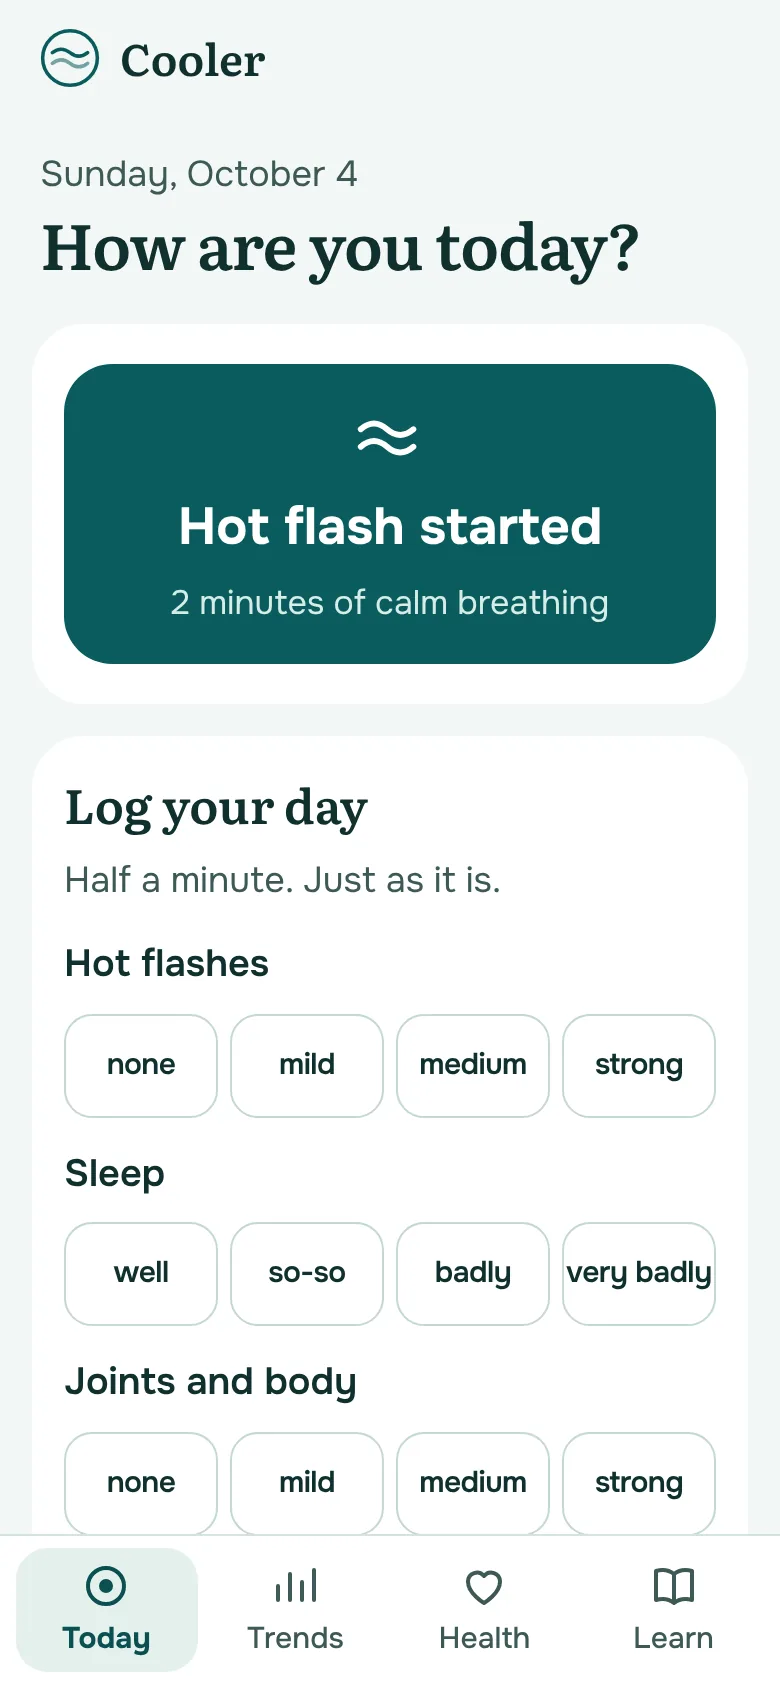
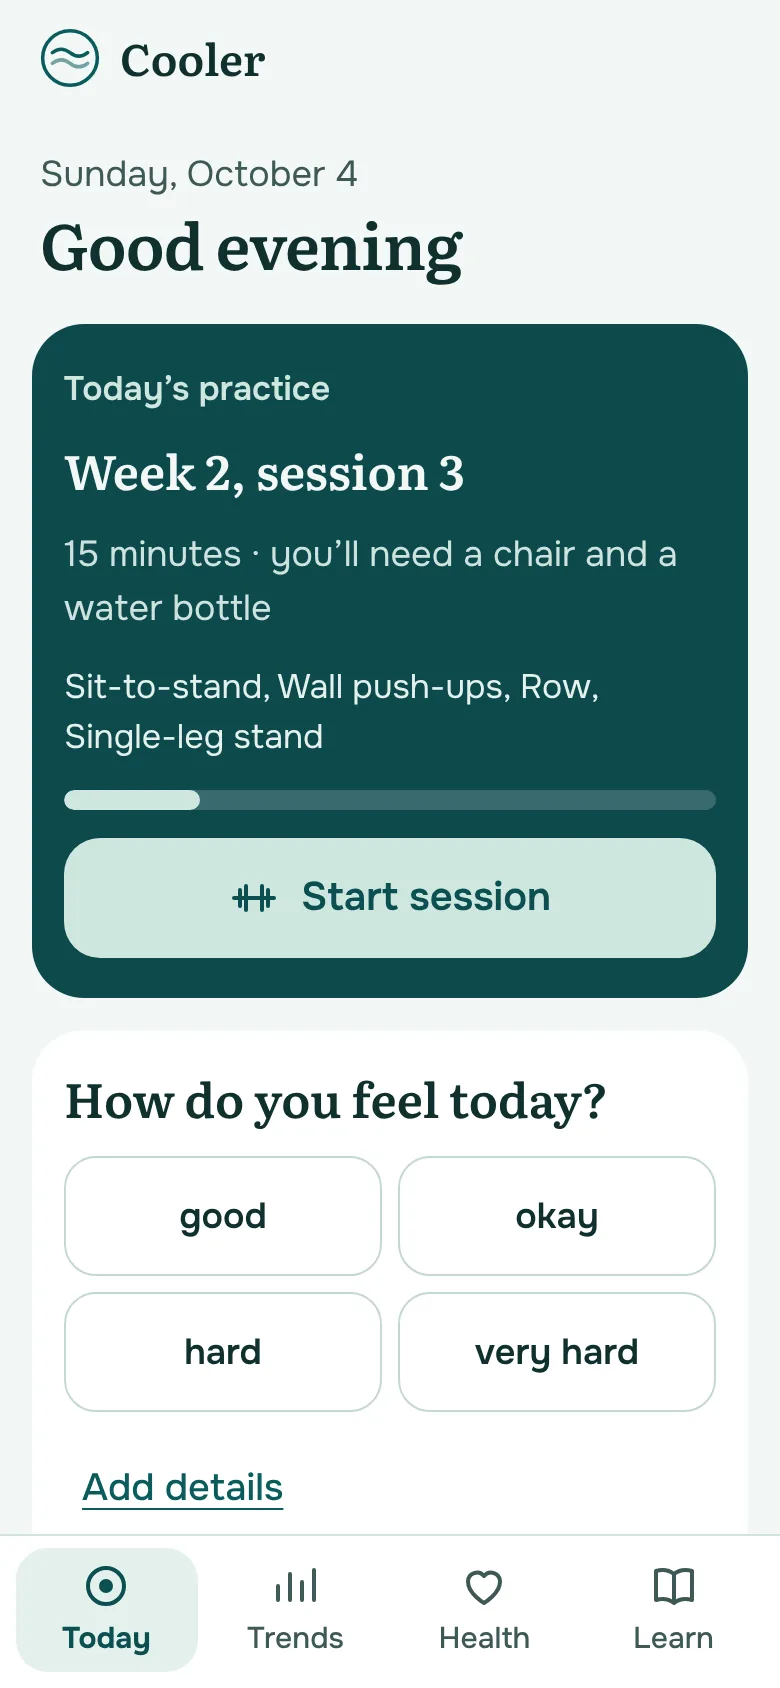
App Today: practice of the day first, one-tap check-in
- Practice card: next strength session, calm breathing on rest days, done state
- Check-in is one question (good / okay / hard / very hard); symptom details are optional
- Hot flash button becomes a row; headache, blood pressure, waist as links
- Breathing sheet gets a calm mode that does not log a hot flash
- New tip for hard days; calm-day tip no longer pushes strength on a rest day
- Landing: new Today screenshot and copy

Claude-Session: https://claude.ai/code/session_013iUDDtnGzNUCcWhPfVsdWa

diff --git a/cooler-site/app/src/screens/Today.jsx b/cooler-site/app/src/screens/Today.jsx
@@ -2,7 +2,7 @@ import { useState, useEffect } from 'preact/hooks';
 import { update, useStore } from '../lib/store.js';
 import { useT, APP_NAME } from '../i18n.js';
 import { SYMPTOMS, LEVELS, SLEEP_LEVELS, TAGS, TIPS, RED_FLAGS } from '../data/content.js';
-import { PROGRAM, nextSession, sessionKey } from '../data/program.js';
+import { PROGRAM, EXERCISES, nextSession, sessionKey } from '../data/program.js';
 import { Logo, Icon, Scale, Chip } from '../ui/kit.jsx';
 import { Breathing, HeadacheSheet, BpSheet, WaistSheet } from './Sheets.jsx';
 import { dayKey, addDays, fmtWeekday, fmtTime, fmtDate, daysBetween, parseDay } from '../lib/dates.js';
@@ -56,7 +56,7 @@ export default function Today() {
       </header>
       <div>
         <p class="date">{fmtWeekday(today, lang)}</p>
-        <h1 class="h1">{away ? t.welcomeBack : t.hello}</h1>
+        <h1 class="h1">{away ? t.welcomeBack : t.greet(new Date().getHours())}</h1>
       </div>
 
       {visitSoon(s) && (
@@ -69,43 +69,23 @@ export default function Today() {
 
       {doses.length > 0 && <MedsToday doses={doses} />}
 
-      {has(p, 'hot') && (
-        <section class="card">
-          <button class="big-hot" onClick={() => { setHotPlace('today_big_button'); open('hot', 'today_big_button'); }}>
-            <Icon name="wave" size={38} />
-            <b>{lang === 'ru' ? 'Начался прилив' : 'Hot flash started'}</b>
-            <span>{lang === 'ru' ? '2 минуты спокойного дыхания' : '2 minutes of calm breathing'}</span>
-          </button>
-          {eventsOn(s.events, today, 'hotflash').length > 0 && <p class="sub">{t.hotToday(eventsOn(s.events, today, 'hotflash').length)}</p>}
-        </section>
-      )}
+      <Practice onBreathe={() => { setHotPlace('practice'); open('calm', 'practice'); }} />
 
       <CheckIn syms={syms} />
 
-      <section class="stack-s">
-        <p class="h3" style="padding:0 4px">{t.quick}</p>
-        <div class="quick">
-          {!has(p, 'hot') && <button onClick={() => { setHotPlace('quick_row'); open('hot', 'quick_row'); }}><Icon name="wave" /><span>{t.qHot}</span></button>}
-          <button onClick={() => open('head', 'quick_row')}><Icon name="head" /><span>{t.qHead}</span></button>
-          <button onClick={() => open('bp', 'quick_row')}><Icon name="bp" /><span>{t.qBp}</span></button>
-          {has(p, 'hot') && <button onClick={() => open('waist', 'quick_row')}><Icon name="ruler" /><span>{t.waist}</span></button>}
+      <section class="card tight">
+        <button class="hot-row" onClick={() => { setHotPlace(has(p, 'hot') ? 'today_big_button' : 'quick_row'); open('hot', 'today_hot_row'); }}>
+          <span class="hot-ico"><Icon name="wave" size={28} /></span>
+          <span class="hot-txt"><b>{lang === 'ru' ? 'Начался прилив' : 'Hot flash started'}</b><span>{t.hotRowSub}</span></span>
+          <span class="chev"><Icon name="chev" size={20} /></span>
+        </button>
+        {eventsOn(s.events, today, 'hotflash').length > 0 && <p class="sub">{t.hotToday(eventsOn(s.events, today, 'hotflash').length)}</p>}
+        <div class="quick-links">
+          <button class="btn btn-ghost" onClick={() => open('head', 'quick_row')}>{t.qHead}</button>
+          <button class="btn btn-ghost" onClick={() => open('bp', 'quick_row')}>{t.qBp}</button>
+          <button class="btn btn-ghost" onClick={() => open('waist', 'quick_row')}>{t.waist}</button>
         </div>
       </section>
-
-      {wantsProgram && (
-        <section class="card">
-          <p class="kicker">{t.programCard} · {L(PROGRAM).title}</p>
-          {!s.program && <p class="sub">{L(PROGRAM).about}</p>}
-          {s.program && next && <p class="h3">{t.programWeek(next.week, next.n)}</p>}
-          {s.program && !next && <p class="sub">{t.programDoneAll}</p>}
-          {s.program && (
-            <div class="bar" aria-hidden="true"><i style={{ width: `${(s.program.done.length / (PROGRAM.weeks * PROGRAM.perWeek)) * 100}%` }} /></div>
-          )}
-          {s.program && next
-            ? <button class="btn btn-primary" onClick={() => { track('card_clicked', { card: 'program', action: 'start_session', week: next.week }); go(`health/program/${sessionKey(next.week, next.n)}`); }}><Icon name="dumbbell" /> {t.programStart}</button>
-            : <button class="btn btn-outline" onClick={() => { track('card_clicked', { card: 'program', action: 'about' }); go('health/program'); }}>{t.programAbout}</button>}
-        </section>
-      )}
 
       {logCount >= 5 ? (
         <section class="card">
@@ -162,10 +142,59 @@ export default function Today() {
       <a class="btn btn-ghost" style="justify-self:center" href={FEEDBACK_URL} target="_blank" rel="noopener" onClick={() => track('feedback_clicked', { place: 'today' })}>{t.feedback}</a>
 
       {sheet === 'hot' && <Breathing place={hotPlace} onClose={() => setSheet(null)} />}
+      {sheet === 'calm' && <Breathing mode="calm" place={hotPlace} onClose={() => setSheet(null)} />}
       {sheet === 'head' && <HeadacheSheet onClose={() => setSheet(null)} onBp={() => setSheet('bp')} />}
       {sheet === 'bp' && <BpSheet onClose={() => setSheet(null)} />}
       {sheet === 'waist' && <WaistSheet onClose={() => setSheet(null)} />}
     </div>
+  );
+}
+
+// ── Today's practice: one thing to do. Strength session, or calm breathing on a rest day. ──
+function Practice({ onBreathe }) {
+  const s = useStore();
+  const { t, lang, L } = useT();
+  const today = dayKey();
+  const dates = s.program?.doneDates || [];
+  const doneToday = dates.includes(today);
+  const restDay = !doneToday && dates.includes(addDays(today, -1));
+  const next = s.program ? nextSession(s.program.done) : { week: 1, n: 1 };
+  const list = next ? PROGRAM.session(next.week, next.n) : [];
+  const names = list.filter((x) => x.id !== 'warmup').map((x) => L(EXERCISES[x.id]).name);
+  const card = (kind) => track('card_clicked', { card: 'practice', action: kind });
+
+  if (doneToday || !next) {
+    return (
+      <section class="card practice">
+        <p class="kicker">✓ {t.practiceDone}</p>
+        <p class="sub">{t.practiceDoneText}</p>
+        <button class="btn btn-glass" onClick={() => { card('calm_after_done'); onBreathe(); }}>{t.practiceCalmGo}</button>
+      </section>
+    );
+  }
+  if (restDay) {
+    return (
+      <section class="card practice">
+        <p class="kicker">{t.practiceToday}</p>
+        <p class="h2">{t.practiceCalmTitle}</p>
+        <p class="sub">{t.practiceCalmMeta}</p>
+        <button class="btn btn-glass btn-block btn-lg" onClick={() => { card('calm'); onBreathe(); }}>{t.practiceCalmGo}</button>
+      </section>
+    );
+  }
+  const first = !s.program;
+  return (
+    <section class="card practice">
+      <p class="kicker">{t.practiceToday}</p>
+      <p class="h2">{first ? t.practiceFirstTitle : t.sessionTitle(next.week, next.n)}</p>
+      <p class="sub">{t.practiceStrengthMeta}</p>
+      <p class="moves">{names.join(', ')}</p>
+      {!first && <div class="bar" aria-hidden="true"><i style={{ width: `${(s.program.done.length / (PROGRAM.weeks * PROGRAM.perWeek)) * 100}%` }} /></div>}
+      <button class="btn btn-glass btn-block btn-lg" onClick={() => {
+        card(first ? 'first_session' : 'start_session');
+        go(first ? 'health/program' : `health/program/${sessionKey(next.week, next.n)}`);
+      }}><Icon name="dumbbell" /> {first ? t.practiceFirst : t.programStart}</button>
+    </section>
   );
 }
 
@@ -243,7 +272,8 @@ function CheckIn({ syms }) {
   const { t, lang, L } = useT();
   const today = dayKey();
   const saved = s.logs[today]?.saved;
-  const [editing, setEditing] = useState(!saved);
+  // Not logged yet: one question. Details (symptoms and what happened) only if she wants to add them.
+  const [editing, setEditing] = useState(false);
   const [draft, setDraft] = useState(() => ({ tags: [], ...(s.logs[today] || {}) }));
   const yesterday = s.logs[addDays(today, -1)];
 
@@ -272,15 +302,29 @@ function CheckIn({ syms }) {
     save(v, 'same_as_yesterday');
   }
 
+  if (!saved && !editing) {
+    return (
+      <section class="card">
+        <h2 class="h2">{t.feelQ}</h2>
+        <div class="feel" role="group" aria-label={t.feelQ}>
+          {t.feel.map((label, v) => (
+            <button class={`l${v}`} onClick={() => { setDraft((d) => ({ ...d, overall: v })); save({ ...draft, overall: v }, 'one_tap'); }}>{label}</button>
+          ))}
+        </div>
+        <button class="btn btn-ghost" style="justify-self:start" onClick={() => { setEditing(true); track('checkin_details_opened', { place: 'before_quick' }); }}>{t.addDetails}</button>
+      </section>
+    );
+  }
+
   if (!editing) {
     const log = s.logs[today];
     const worst = worstSymptom(log);
-    const tip = TIPS[worst || 'calm'];
+    const tip = TIPS[worst || (log.overall >= 2 ? 'hardDay' : 'calm')];
     return (
       <section class="card">
         <div class="row between">
-          <p class="kicker">✓ {t.daySaved}</p>
-          <button class="btn btn-ghost" style="min-height:40px" onClick={() => { setDraft({ tags: [], ...log }); setEditing(true); track('checkin_edit_started'); }}>{t.editDay}</button>
+          <p class="kicker">✓ {log.overall != null ? `${t.feelSaved}: ${t.feel[log.overall]}` : t.daySaved}</p>
+          <button class="btn btn-ghost" style="min-height:40px" onClick={() => { setDraft({ tags: [], ...log }); setEditing(true); track('checkin_edit_started'); }}>{syms.some((id) => log[id] != null) ? t.editDay : t.addDetails}</button>
         </div>
         <div class="tipbox">
           <p class="kicker" style="color:var(--lagoon-dark)">{t.tipTitle}</p>

diff --git a/cooler-site/app/src/i18n.js b/cooler-site/app/src/i18n.js
@@ -36,6 +36,23 @@ const S = {
     analyticsOpts: { full: 'Помогаю: можно видеть, возвращаюсь ли я', basic: 'Только обезличенно, без привязки ко мне', off: 'Выключить совсем' },
     // today
     hello: 'Как вы сегодня?',
+    greet: (h) => (h < 12 ? 'Доброе утро' : h < 18 ? 'Добрый день' : 'Добрый вечер'),
+    practiceToday: 'Практика на сегодня',
+    practiceStrengthMeta: '15 минут · понадобятся стул и бутылка воды',
+    practiceFirstTitle: 'Первое занятие для костей и мышц',
+    practiceFirst: 'Начать',
+    practiceCalmTitle: 'Две минуты спокойного дыхания',
+    practiceCalmMeta: 'Вдох на 4, выдох на 6. Сегодня мышцам отдых.',
+    practiceCalmGo: 'Подышать',
+    practiceDone: 'Практика сделана',
+    practiceDoneText: 'Следующее занятие через день. Если захочется, можно просто подышать.',
+    feelQ: 'Как вы себя чувствуете?',
+    feel: ['хорошо', 'нормально', 'тяжело', 'очень тяжело'],
+    feelSaved: 'Записали',
+    addDetails: 'Добавить подробности',
+    calmTitle: 'Спокойное дыхание',
+    calmText: 'Медленный выдох говорит телу, что всё в порядке.',
+    hotRowSub: '2 минуты дыхания, прилив запишется сам',
     medsToday: 'Лекарства на сегодня',
     take: 'Приняла', skipDose: 'Пропустить', taken: 'принято', skipped: 'пропущено', undo: 'Отменить',
     lowStock: (n) => `Осталось ${n} — пора купить`,
@@ -194,6 +211,23 @@ const S = {
     analyticsText: 'What we see: which screens were opened and which buttons were tapped. What we never see: your entries, blood pressure, medicines, notes. The statistics service is Amplitude, and your IP address is not stored.',
     analyticsOpts: { full: 'Helping: you can see if I come back', basic: 'Anonymous only, not linked to me', off: 'Turn off completely' },
     hello: 'How are you today?',
+    greet: (h) => (h < 12 ? 'Good morning' : h < 18 ? 'Good afternoon' : 'Good evening'),
+    practiceToday: 'Today’s practice',
+    practiceStrengthMeta: '15 minutes · you’ll need a chair and a water bottle',
+    practiceFirstTitle: 'Your first session for bones and muscles',
+    practiceFirst: 'Start',
+    practiceCalmTitle: 'Two minutes of calm breathing',
+    practiceCalmMeta: 'In for 4, out for 6. Your muscles rest today.',
+    practiceCalmGo: 'Breathe now',
+    practiceDone: 'Practice done',
+    practiceDoneText: 'Next session the day after tomorrow. If you feel like it, you can just breathe.',
+    feelQ: 'How do you feel today?',
+    feel: ['good', 'okay', 'hard', 'very hard'],
+    feelSaved: 'Logged',
+    addDetails: 'Add details',
+    calmTitle: 'Calm breathing',
+    calmText: 'A slow breath out tells your body it’s safe.',
+    hotRowSub: '2 minutes of breathing, logged for you',
     medsToday: 'Medicines today',
     take: 'Taken', skipDose: 'Skip', taken: 'taken', skipped: 'skipped', undo: 'Undo',
     lowStock: (n) => `${n} left — time to buy more`,

diff --git a/cooler-site/app/src/screens/Sheets.jsx b/cooler-site/app/src/screens/Sheets.jsx
@@ -9,11 +9,13 @@ import { track } from '../lib/analytics.js';
 import { haptic } from '../lib/telegram.js';
 
 // ── "Hot flash started": logs the event and opens 2 minutes of paced breathing ──
-export function Breathing({ onClose: close, place = 'today' }) {
+// mode 'hot': a hot flash started (logs it). mode 'calm': the daily practice, nothing is logged as a symptom.
+export function Breathing({ onClose: close, place = 'today', mode = 'hot' }) {
   const { t, lang } = useT();
   const [left, setLeft] = useState(120);
   const [time] = useState(() => {
     const iso = localIso();
+    if (mode === 'calm') { track('calm_breathing_started', { place }); return iso.slice(11, 16); }
     update((s) => { s.events.push({ t: iso, type: 'hotflash' }); return s; });
     track('hotflash_logged', { place });
     haptic('medium');
@@ -26,15 +28,15 @@ export function Breathing({ onClose: close, place = 'today' }) {
   }, []);
   const onClose = (how = 'close') => {
     const seconds = 120 - left;
-    track(left === 0 ? 'breathing_completed' : 'breathing_closed_early', { seconds, how });
+    track(left === 0 ? 'breathing_completed' : 'breathing_closed_early', { seconds, how, mode });
     close();
   };
   const m = `${Math.floor(left / 60)}:${String(left % 60).padStart(2, '0')}`;
   const count = eventsOn(getState().events, dayKey(), 'hotflash').length;
   return createPortal(
-    <div class="breath" role="dialog" aria-modal="true" aria-label={t.qHot}>
+    <div class="breath" role="dialog" aria-modal="true" aria-label={mode === 'calm' ? t.calmTitle : t.qHot}>
       <div class="row between">
-        <span style="font-size:17px;color:#BFDCD4">{t.hotLogged(fmtTime(time, lang))} · {t.hotToday(count)}</span>
+        <span style="font-size:17px;color:#BFDCD4">{mode === 'calm' ? t.calmTitle : `${t.hotLogged(fmtTime(time, lang))} · ${t.hotToday(count)}`}</span>
         <button class="btn" style="min-height:44px;border:1.5px solid #4E8583;color:#F3F7F5;background:transparent;font-size:17px" onClick={() => onClose('close')}>{t.close}</button>
       </div>
       <div class="center">
@@ -42,7 +44,7 @@ export function Breathing({ onClose: close, place = 'today' }) {
           <div class="orb" /><div class="orb in2" />
           <div class="orb-label"><span class="lab-in">{t.inhale}</span><span class="lab-out">{t.exhale}</span></div>
         </div>
-        <p class="wave-text">{t.wave}</p>
+        <p class="wave-text">{mode === 'calm' ? t.calmText : t.wave}</p>
         <p style="font-size:18px;color:#BFDCD4">{t.rhythm}</p>
       </div>
       <p style="text-align:center;font-size:20px;font-variant-numeric:tabular-nums" aria-live="off">{left > 0 ? t.timeLeft(m) : t.twoMinDone}</p>

diff --git a/cooler-site/app/src/styles.css b/cooler-site/app/src/styles.css
@@ -171,3 +171,23 @@ details.acc .acc-body { padding: 0 0 16px; display: grid; gap: 10px; font-size: 
   .nav, .top, .no-print { display: none !important; }
   body, .app { background: #fff; }
 }
+
+/* Today: practice of the day, one-tap check-in, hot flash row */
+.card.practice { background: var(--deep); color: var(--air); }
+.card.practice .kicker { color: var(--glass); }
+.card.practice .sub { color: #CFE3DE; }
+.card.practice .moves { font-size: 17px; line-height: 1.45; color: #E4F0EC; }
+.card.practice .bar { background: rgba(255,255,255,.18); }
+.card.practice .bar > i { background: var(--glass); }
+.btn-lg { min-height: 60px; font-size: 20px; }
+.feel { display: grid; grid-template-columns: repeat(2, minmax(0, 1fr)); gap: 8px; }
+.feel button { min-height: 60px; border-radius: 16px; border: 1.5px solid var(--line); background: var(--white); font-size: 18px; font-weight: 600; color: var(--ink); }
+.feel button:active { background: var(--glass-2); border-color: var(--lagoon); }
+.card.tight { gap: 4px; }
+.hot-row { display: grid; grid-template-columns: auto 1fr auto; gap: 14px; align-items: center; text-align: left; background: none; border: 0; padding: 4px 0; width: 100%; color: inherit; }
+.hot-ico { width: 52px; height: 52px; border-radius: 50%; display: grid; place-items: center; background: var(--glass-2); color: var(--lagoon); }
+.hot-txt { display: grid; gap: 2px; }
+.hot-txt b { font-size: 19px; }
+.hot-txt span { font-size: 16px; color: var(--ink-2); }
+.quick-links { display: flex; flex-wrap: wrap; gap: 4px 12px; border-top: 1px solid var(--line-2); padding-top: 6px; margin-top: 6px; }
+.quick-links .btn-ghost { min-height: 44px; font-size: 17px; padding: 0 2px; }

diff --git a/cooler-site/app/src/data/content.js b/cooler-site/app/src/data/content.js
@@ -80,8 +80,12 @@ export const TIPS = {
     en: 'Joints usually do better with movement than rest. Try 10 minutes of gentle stretching today, even sitting down.',
   },
   calm: {
-    ru: 'Сегодня спокойный день, можно заняться силовыми. Мышцам и костям это полезно.',
-    en: 'A calm day. Good time for some strength training, which helps your muscles and bones.',
+    ru: 'Спокойный день. Прогулка при дневном свете поможет и настроению, и сну, и костям.',
+    en: 'A calm day. A walk in daylight helps your mood, your sleep and your bones.',
+  },
+  hardDay: {
+    ru: 'Тяжёлые дни бывают. Сегодня хватит одного маленького дела: две минуты дыхания или короткой прогулки. Если добавите подробности, через неделю станет видно, что на это влияет.',
+    en: 'Hard days happen. One small thing is enough today: two minutes of breathing or a short walk. If you add details, in a week you’ll start seeing what affects days like this.',
   },
 };
 
